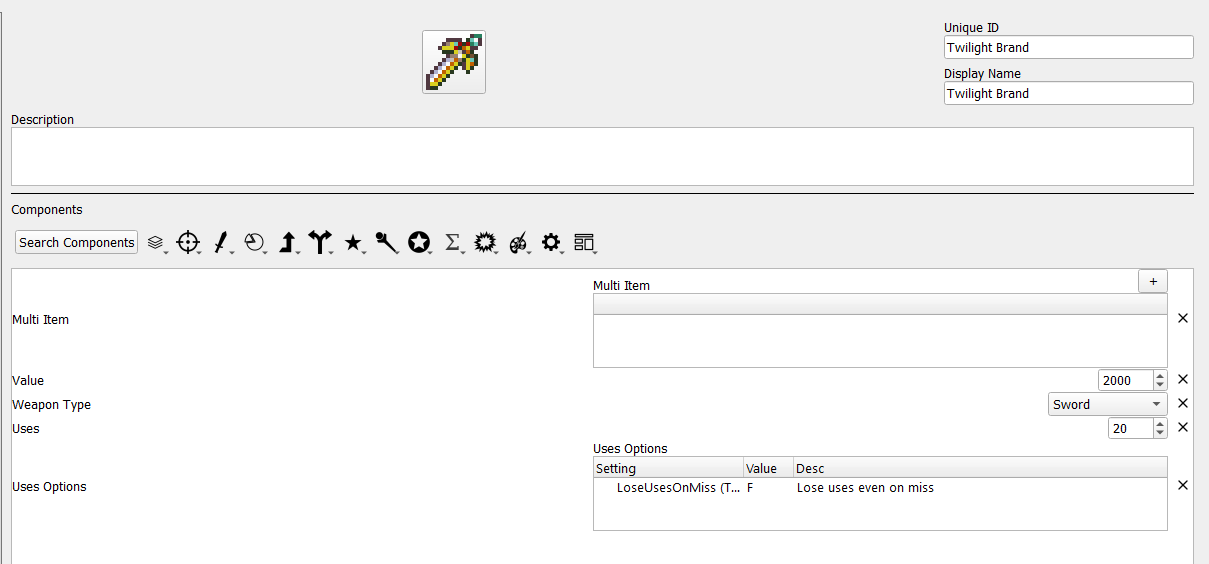
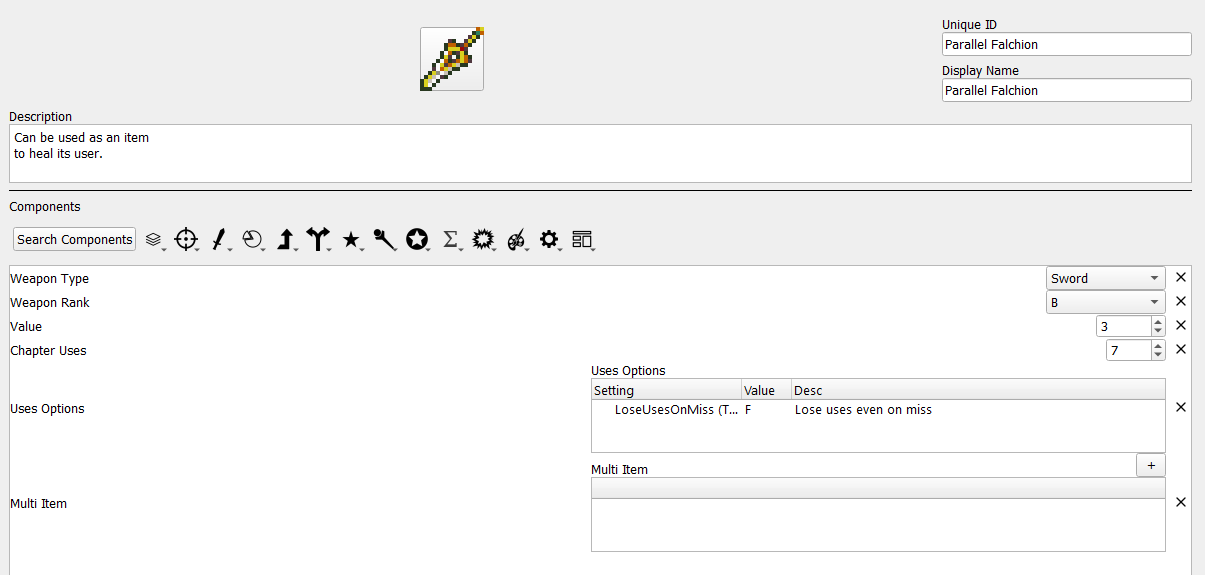
Updated and new docs

diff --git a/docs/source/guides/skill_item_tutorials/Multi-Items.md b/docs/source/guides/skill_item_tutorials/Multi-Items.md
@@ -1,5 +1,7 @@
 # Multi Items
 
+*Credit to Zelix for the Parallel Falchion icon used for this tutorial.*
+
 ## What is a multi item?
 
 Multi items are items which consist of one or more other items. These inner items, referred to here as sub items, are usable by the unit like any other item they possess, although multi items have some unique properties:
@@ -12,11 +14,11 @@ Multi items are items which consist of one or more other items. These inner item
 
 **Step 1: Create the multi item.**
 
-Open the item editor and create a new item. For this example, we will be creating the Twilight Brand, a Light Brand where the user can choose whether it functions as a normal sword or a magical one. 
+Open the item editor and create a new item. For this example, we will be creating the Parallel Falchion, a sword that can also be used as an item to heal the user. 
 
 ![component](./images/Multi-Item/MultiItem1.png)
 
-Once you add the Multi Item component, you should add other components that apply to the item as a whole. In this case, a weapon type, uses, and price are appropriate. Specific stats like hit rate and damage should be left to the sub items. The multi item itself is also intentionally not a weapon, as the weapons that are meant to be "equipped" are the sub items in this case.
+Once you add the Multi Item component, you should add other components that apply to the item as a whole. In this case, a weapon type, uses, and price are appropriate. Specific stats like hit rate and damage should be left to the sub items. The multi item itself is also intentionally not a weapon despite having a weapon type, as the weapons that are meant to be "equipped" are the sub items in this case. It is also perfectly valid to not include the weapon type at this stage and only have weapon types associated wtih the sub items.
 
 ![skeleton](./images/Multi-Item/MultiItem2.png)
 
@@ -28,9 +30,11 @@ Sub items can be created as normal. If the uses of the sub item are meant to be 
 
 ![sword1](./images/Multi-Item/MultiItem3.png)
 
+As the below example illustrates, the two functions of a multi item do not necessarily need to be related to each other, as the healing portion of the Parallel Falchion would be treated as a usable item rather than a weapon.
+
 ![sword2](./images/Multi-Item/MultiItem4.png)
 
-For this example, we grant the ability to crit and gain weapon experience to the normal form of the sword, and the ability to deal magic damage to the magical form, allowing for a Light Brand that is more difficult but rewarding to use.
+You may notice that there is a chapter uses component associated with the healing sub item. You can associate uses to the sub items to have certain options of a multi item be usable only a limited number of times. Any time a sub item is used, one use will be subtracted from the multi item as well (if the multi item has uses). However, using one sub item will not subtract a use from another sub item. Sub items also do not need to have their own uses; if a multi item has uses and a sub item does not, using that sub item will still subtract a use from the multi item.
 
 **Step 4: Add the sub items to the multi item.**
 
@@ -38,8 +42,8 @@ Return to the multi item and use the + symbol above the multi item component to 
 
 ![swordfinal](./images/Multi-Item/MultiItem5.png)
 
-After this, the Twilight Brand can be used in-game as a multi item.
+After this, the Parallel Falchion can be used in-game as a multi item.
 
 ## Why do I make a multi item?
 
-The scenario given in this example is fairly simple: a sword with two forms. However, multi items have many uses beyond that. They can represent a weapon with a limited-use finisher attack, by having a multi item consisting of one normal use sub item and one powerful sub item with only one use. They do not need to be limitd to weaponry, either; a multi item could be a tome with no properties of its own that contains various spells for healing or status ailments, each having its own mana cost. Thus, if you have any item at all which has more than one function, the multi item component is likely to be of use.
+The scenario given in this example is fairly simple: a sword that can harm and heal. However, multi items have many uses beyond that. They can represent a weapon with a limited-use finisher attack, by having a multi item consisting of one normal use sub item and one powerful sub item with only one use. They do not need to be limited to weaponry, either; a multi item could be a tome with no properties of its own that contains various spells for healing or status ailments, each having its own mana cost. Thus, if you have any item at all which has more than one function, the multi item component is likely to be of use.

diff --git a/docs/source/guides/skill_item_tutorials/Conditional-Passives-II.md b/docs/source/guides/skill_item_tutorials/Conditional-Passives-II.md
@@ -1,0 +1,57 @@
+# 4. Conditional Passives II - Warding Blow, Rainlashslayer
+Some skills have conditions that have combat-specific conditions that must be met before becoming active. This guide illustrates how to set up skills of that nature.
+
+This section assumes you have already read and understood Conditional Passives I.
+
+## Required editors and components
+* Skills:
+	* Attribute components - Class Skills
+	* Combat components - Damage, Stat Change
+	* **Advanced components - Combat Condition**
+* **Objects, Attributes and Properties:**
+	* **mode**
+	* **unit - name**
+
+## Skill descriptions
+ - **Warding Blow** - +20 RES when attacking.
+ - **Rainlashslayer** - +10 damage against units named Rainlash.
+ 
+## Combat Condition Overview
+
+The Combat Condition component gives access to additional information available only during combat. However, a skill with this component is always treated as inactive outside of combat.
+
+The additional information granted by this component is: the target of the attack and the mode of the attack.
+
+The target available in the Combat Condition is a unit object, so you can use any information from the target that you could use from your own unit, such as the get_hp() and get_max_hp() used in the Wrath tutorial.
+
+The mode is one of two values: 'attack' if the holder of the skill initiated combat, and 'defense' if the target initiated combat.
+
+## Warding Blow
+
+The first step is to set up what your skill is supposed to do when it's active. In the case of Warding Blow, when it's active, it gives +20 RES. Your skill should look like this to start:
+
+![WardingBlowStep1](./images/Conditional-Passives-II/1.png)
+
+Since Warding Blow only activates while attacking, you need a variable that tracks whether the unit with Warding Blow is attacking or not, which is the 'mode' mentioned above. First, you need to include the Combat Condition component.
+
+![WardingBlowStep2](./images/Conditional-Passives-II/2.png)
+
+Since Warding Blow is active when attacking, the condition you need to check is mode == 'attack', so just toss that in and you're done!
+
+![WardingBlowStep3](./images/Conditional-Passives-II/3.png)
+
+## Rainlashslayer
+
+Once again, we begin with an empty template and add what the skill does when it's active. In this case, the skill will grant +10 damage when active.
+
+![RainlashslayerStep1](./images/Conditional-Passives-II/4.png)
+
+As before, since this skill activates only when there is another combatant, we need to use the Combat Condition component to get information about that combatant.
+
+In this case, we want our skill to trigger any time the target is named Rainlash. For this, we will not check the target's nid as there can be multiple unique units all named Rainlash. Instead, we can use the target's name field.
+
+![RainlashslayerStep2](./images/Conditional-Passives-II/5.png)
+
+As mentioned earlier, any of the target's fields can be used in this component, such as their class, stats, and even favorite foods (if you bother to set up Unit Notes).
+
+As with any conditional, it is possible to create more complex setups if needed, such as a skill that occurs only if the unit is attacking and the target's name is Rainlash. Go nuts.

diff --git a/docs/source/guides/eventing_tutorials/Choices-and-Battle-Saves.md b/docs/source/guides/eventing_tutorials/Choices-and-Battle-Saves.md
@@ -1,4 +1,3 @@
-(Choices-and-Battle-Saves)=
 # Choices and Battle Saves
 
 _last updated v0.1_
@@ -16,7 +15,7 @@ The choice command takes in three required arguments:
 Example:
 `choice;fates;Who do you side with?;Hoshido,Nohr,Smash`
 
-![ChoiceScreenshot](images/ChoiceScreenshot.png)
+![ChoiceScreenshot](../images/ChoiceScreenshot.png)
 
 The choice that the player chooses will be saved in the game_vars under the name you gave the choice. The most recent choice made is also saved in game_vars under `_last_choice`. So you can access their choice with `game.game_vars['fates']` or `game.game_vars['_last_choice']`. 
 
@@ -32,7 +31,7 @@ end
 
 Battle saves give the player the opportunity to make a save while in the middle of a chapter. You can use this to give the player a save after completing a tough objective. Or perhaps you give the player the opportunity to battle save only at the beginning of every fifth turn. Or you have certain save point regions that when activated allow the player to save the game. There are lots of possibilities.
 
-![BattleSaveScreenshot](images/BattleSaveScreenshot.png)
+![BattleSaveScreenshot](../images/BattleSaveScreenshot.png)
 
 The `battle_save` event command tells the engine to create a battle save after the event is complete. 
 

diff --git a/docs/source/guides/Shop-Portraits.md b/docs/source/guides/Shop-Portraits.md
@@ -1,0 +1,19 @@
+# Shop Portraits
+
+This guide will very swiftly illustrate how to update the three special shop portraits in LT maker: armory, vendor, and arena.
+
+These portraits are not stored in the same way as standard unit portraits. Instead, to update these portraits, you must use the **resources/custom_sprites** directory in your project. If a **custom_sprites** directory does not already exist for your project, create one (make sure it's named exactly **custom_sprites**).
+
+![CustomSpritesFileExplorer](images/custom_sprites.png)
+
+Then, place the portrait you wish to use in this directory and name it one of the following file names to replace its respective default portrait:
+
+**arena_portrait.png**<br>
+**armory_portrait.png**<br>
+**vendor_portrait.png**
+
+![PlaceImageLikeSo](images/anna_takeover.png)
+
+Now when you set up a shop of that type in a shop event, you should see your replaced portrait.
+
+![HiAnna](images/anna_takeover_2.png)

diff --git a/docs/source/guides/index.rst b/docs/source/guides/index.rst
@@ -9,10 +9,10 @@ These pages will contain various guides.
 
     Breakable-Walls
     Build-Engine
-    Choices-and-Battle-Saves
     Leadership-Stars
     Overworld
     Unit-Groups
+    Shop-Portraits
     Title-Screen
 
 .. toctree::

diff --git a/docs/source/guides/eventing_tutorials/index.rst b/docs/source/guides/eventing_tutorials/index.rst
@@ -8,6 +8,7 @@ These are guides on various useful applications of events.
     :caption: Contents
 
     A-Simple-Mercenary-Shop
+    Choices-and-Battle-Saves
     Death-Quotes
     Conditional-Personal-Skills
     Arena

diff --git a/docs/source/guides/skill_item_tutorials/index.rst b/docs/source/guides/skill_item_tutorials/index.rst
@@ -11,6 +11,7 @@ These are guides on various useful skills and items.
     Direct-Passives
     Conditional-Passives-I
     Auras
+    Conditional-Passives-II
 
 .. toctree::
     :maxdepth: 2
